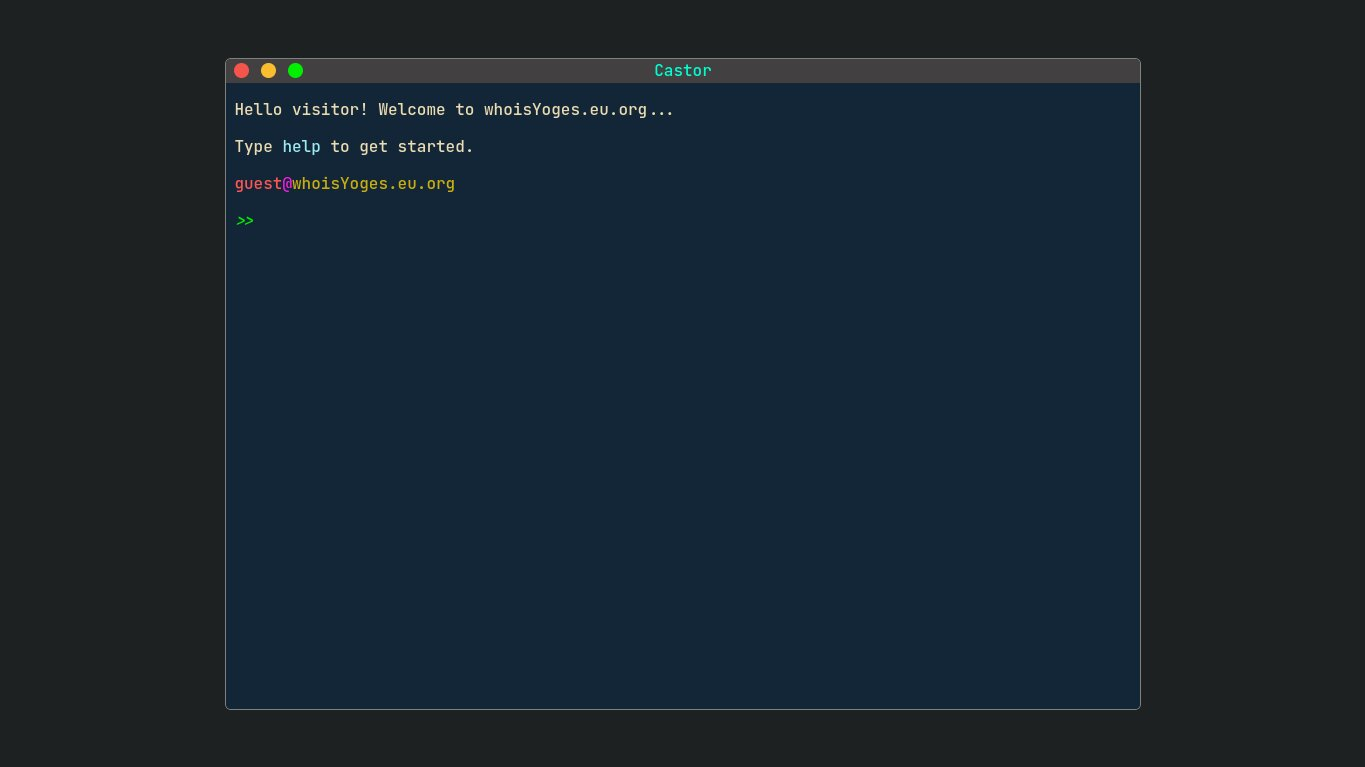
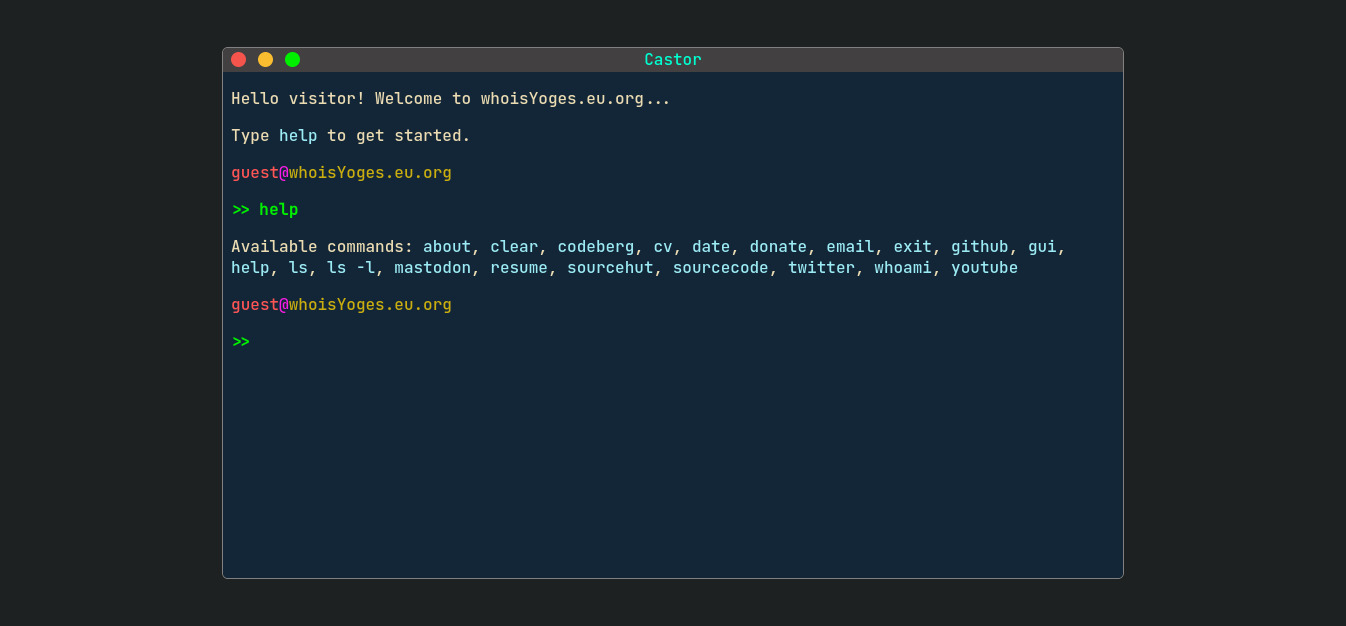
Updated readme.

Changed region(s): [[0.156, 0.0607, 0.8425, 0.516], [0.1872, 0.9105, 0.8425, 0.9409]]

diff --git a/README.md b/README.md
@@ -1,12 +1,11 @@
 # website-cli
-Fully responsive personal terminal-like website made with js.
+Fully responsive terminal-like portfolio website made with js.
 
-### Main:
-<https://git.sr.ht/~whoisyoges/website-cli>
+This repository is available in following platforms:
 
-### Mirrors:
-<https://codeberg.org/whoisYoges/website-cli>
-<https://github.com/whoisYoges/website-cli>
+- Sourcehut: <https://git.sr.ht/~whoisyoges/website-cli>
+- Codeberg: <https://codeberg.org/whoisYoges/website-cli>
+- Github: <https://github.com/whoisYoges/website-cli>
 
 ![Site_Preview](/preview.jpg)
 Live at: <https://whoisyoges.eu.org>
